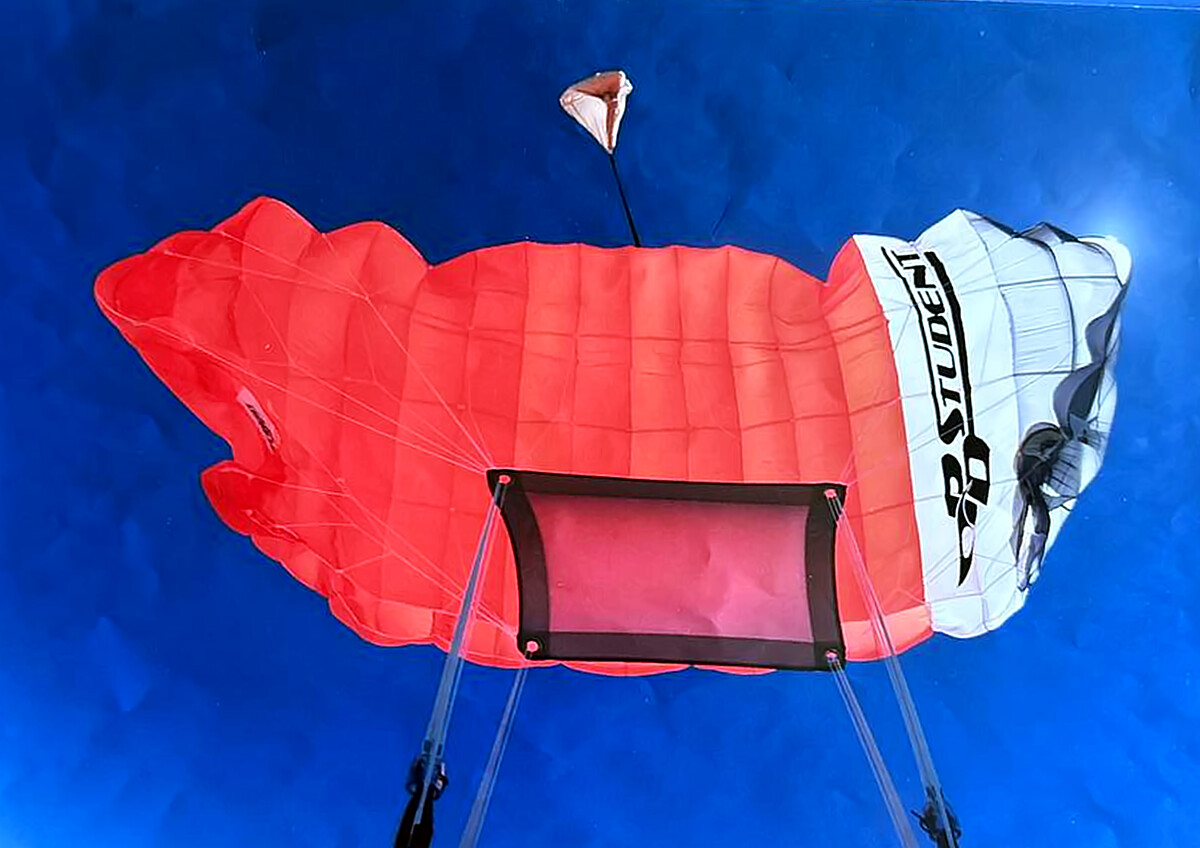
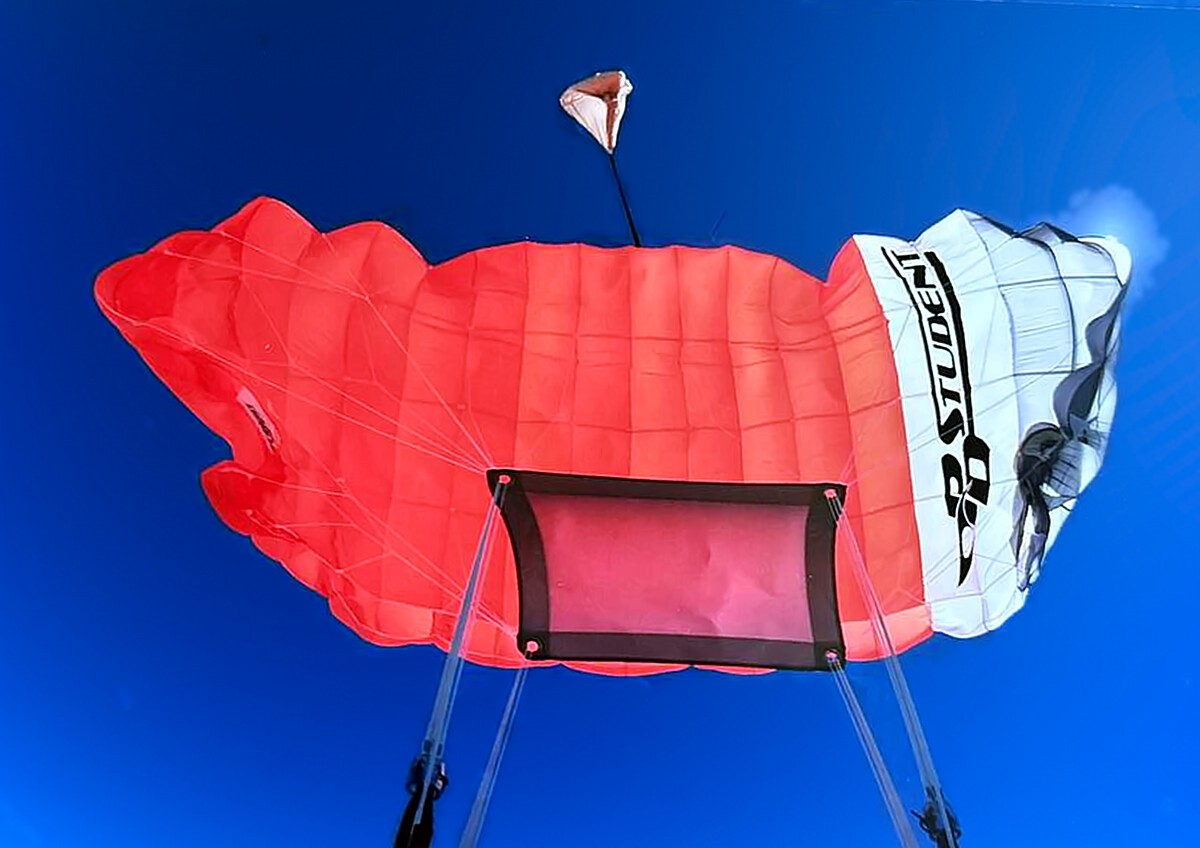
Главпрыг: плакаты отказов — ровное небо без вмятин бумаги

diff --git a/glavpryg-sayt/otkazy-plakaty/nebo.py b/glavpryg-sayt/otkazy-plakaty/nebo.py
@@ -1,0 +1,69 @@
+#!/usr/bin/env python3
+"""Ровное небо: заменяет фон плаката гладкой поверхностью, вмятины и складки бумаги уходят.
+
+Запуск: python nebo.py вход.png выход.png [--maska maska.png]
+Небо ищется по цвету кромки кадра; его цвет приближается многочленом 4-й степени
+по x, y (так сохраняется естественный переход к горизонту и ореол солнца),
+стропы и тонкие детали в маску не попадают.
+"""
+import sys, cv2, numpy as np
+
+def mnogochlen(x, y, st=4):
+    return np.stack([x**i*y**j for i in range(st+1) for j in range(st+1-i)], -1)
+
+def Nebo(im):
+    h, w = im.shape[:2]
+    s = 320/max(h, w); hm, wm = round(h*s), round(w*s)
+    mal = cv2.resize(im, (wm, hm), interpolation=cv2.INTER_AREA)
+    lab = cv2.cvtColor(mal, cv2.COLOR_BGR2LAB).astype(np.float32)
+    ves = np.float32([0.45, 1.6, 1.6])                 # яркость весит меньше: вмятины — это перепад яркости
+    # затравка — самый частый цвет кромки кадра
+    kr = np.concatenate([lab[:6].reshape(-1, 3), lab[-6:].reshape(-1, 3), lab[:, :6].reshape(-1, 3), lab[:, -6:].reshape(-1, 3)])
+    d = np.linalg.norm((kr[:, None]-kr[None, ::7])*ves, axis=2)
+    seme = kr[np.argmax((d < 12).sum(1))]
+    m = np.linalg.norm((lab-seme)*ves, axis=2) < 30
+    yy, xx = np.mgrid[0:hm, 0:wm].astype(np.float32)
+    A = mnogochlen(xx/wm-0.5, yy/hm-0.5)
+    for porog in (26, 20, 16, 16):
+        k = [np.linalg.lstsq(A[m], lab[..., c][m], rcond=None)[0] for c in range(3)]
+        fit = np.stack([A@kc for kc in k], -1)
+        raz = np.linalg.norm((lab-fit)*ves, axis=2)
+        m = raz < porog
+    # связь с кромкой: островки «цвета неба» внутри купола не трогаем
+    n, lb = cv2.connectedComponents(m.astype(np.uint8))
+    kraj = set(np.unique(np.concatenate([lb[0], lb[-1], lb[:, 0], lb[:, -1]]))) - {0}
+    m = np.isin(lb, list(kraj)).astype(np.uint8)
+    # маска и гладкое небо в полный размер
+    fitB = cv2.cvtColor(np.clip(fit, 0, 255).astype(np.uint8), cv2.COLOR_LAB2BGR)
+    gl = cv2.resize(fitB, (w, h), interpolation=cv2.INTER_CUBIC).astype(np.float32)
+    m = cv2.resize(m*255, (w, h), interpolation=cv2.INTER_LINEAR)
+    # дырки в небе (пятна, вмятины, отличившиеся по цвету) заливаем, если они мелкие
+    n, lb, st, _ = cv2.connectedComponentsWithStats((m < 128).astype(np.uint8))
+    melkie = np.where(st[:, cv2.CC_STAT_AREA] < h*w*0.004)[0]
+    m[np.isin(lb, melkie[melkie > 0])] = 255
+    m = cv2.erode(m, np.ones((7, 7), np.uint8))
+    # стропы и тонкие детали — из маски вон
+    sery = cv2.cvtColor(im, cv2.COLOR_BGR2GRAY)
+    ker = cv2.getStructuringElement(cv2.MORPH_ELLIPSE, (9, 9))
+    lin = np.maximum(cv2.morphologyEx(sery, cv2.MORPH_BLACKHAT, ker), cv2.morphologyEx(sery, cv2.MORPH_TOPHAT, ker))
+    lin = cv2.dilate((lin > 14).astype(np.uint8)*255, np.ones((3, 3), np.uint8))
+    # оставляем только протяжённые линии: точки фактуры бумаги стропами не считаются
+    n, lb, st, _ = cv2.connectedComponentsWithStats(lin)
+    dlin = np.maximum(st[:, cv2.CC_STAT_WIDTH], st[:, cv2.CC_STAT_HEIGHT])
+    # и только те, что упираются в купол или человека: стропа всегда к чему-то пристёгнута
+    predmet = cv2.dilate((m < 128).astype(np.uint8), np.ones((15, 15), np.uint8))
+    kasanie = np.bincount(lb[predmet > 0].ravel(), minlength=n) > 0
+    lin = (np.isin(lb, np.where((dlin >= 40) & kasanie & (np.arange(n) > 0))[0])*255).astype(np.uint8)
+    m = cv2.min(m, 255-lin)
+    a = cv2.GaussianBlur(m.astype(np.float32)/255, (0, 0), 2.5)[..., None]
+    # на небо — гладкая поверхность плюс чуть мелкой фактуры, чтобы не выглядело нарисованным
+    f = im.astype(np.float32)
+    melk = f-cv2.GaussianBlur(f, (0, 0), 1.2)
+    nebo = gl+melk*0.25
+    out = f*(1-a)+nebo*a
+    return np.clip(out, 0, 255).astype(np.uint8), (a[..., 0]*255).astype(np.uint8)
+
+if __name__ == '__main__':
+    im = cv2.imread(sys.argv[1]); out, m = Nebo(im)
+    cv2.imwrite(sys.argv[2], out, [cv2.IMWRITE_JPEG_QUALITY, 95])
+    if '--maska' in sys.argv: cv2.imwrite(sys.argv[sys.argv.index('--maska')+1], m)

diff --git a/glavpryg-sayt/otkazy-plakaty/plakaty.py b/glavpryg-sayt/otkazy-plakaty/plakaty.py
@@ -1,9 +1,12 @@
 #!/usr/bin/env python3
 """Плакаты отказов: геометрия в ImageMagick, обработка в G'MIC и ImageMagick.
 
-Запуск: python3 plakaty.py [папка-вывода]  (нужны пакеты imagemagick и gmic)
+Запуск: python plakaty.py [папка-вывода]  (нужны пакеты imagemagick и gmic, в python — opencv)
+Последний шаг — nebo.py: ровное небо без вмятин и складок бумаги.
 """
 import math, os, subprocess, sys, tempfile
+import cv2
+from nebo import Nebo
 
 SRC='/home/mokeeva/main/exchange/otkazy-yadisk/photo_2026-10-12_12-'
 OUT=sys.argv[1] if len(sys.argv)>1 else os.path.dirname(os.path.abspath(__file__))
@@ -57,4 +60,7 @@ for i,(n,(tl,tr,br,bl,_)) in enumerate(sorted(U.items()),1):
                '-resize',f'{round(W*1.03)}x{round(H*1.03)}^','-gravity','center','-extent',f'{W}x{H}',
                '-unsharp','0x1.2+0.7+0.02','-strip','-quality','90',
                f'{OUT}/plakat-{i:02d}.jpg')
+    # 4. ровное небо
+    put=f'{OUT}/plakat-{i:02d}.jpg'
+    cv2.imwrite(put, Nebo(cv2.imread(put))[0], [cv2.IMWRITE_JPEG_QUALITY, 90])
     print(f'plakat-{i:02d}.jpg ← {n}')
